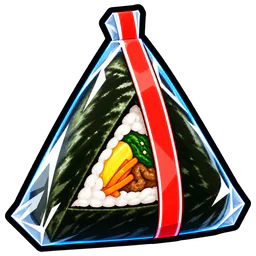
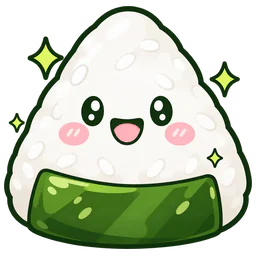
art(office): smiling white 삼각김밥 pickup (no longer reads as a warning sign)

diff --git a/public-office/art/SOURCES.md b/public-office/art/SOURCES.md
@@ -199,7 +199,7 @@ GPT Image 2.5 (`gpt_image_2_5`, medium, transparent) → trimmed, contained with
 | `pickup-coin.webp` | gpt_image_2_5 | Single game pickup item icon, one object only, centered and filling most of the square, very thick dark outline, bold simple shapes, saturated colors with neon accents, bright Korean webtoon comic style, cel shading, readable at 32 pixels, transparent background, no text, no letters, no numbers, no logos. The item: a shiny gold coin with a simple analog clock face (hands only) embossed on it, sparkle. |
 | `pickup-shield.webp` | gpt_image_2_5 | Single game pickup item icon, one object only, centered and filling most of the square, very thick dark outline, bold simple shapes, saturated colors with neon accents, bright Korean webtoon comic style, cel shading, readable at 32 pixels, transparent background, no text, no letters, no numbers, no logos. The item: a pair of cyan noise-cancelling headphones with a soft glowing bubble. |
 | `pickup-slow.webp` | gpt_image_2_5 | Single game pickup item icon, one object only, centered and filling most of the square, very thick dark outline, bold simple shapes, saturated colors with neon accents, bright Korean webtoon comic style, cel shading, readable at 32 pixels, transparent background, no text, no letters, no numbers, no logos. The item: a plastic cup of iced americano with ice cubes and a straw, frosty. |
-| `pickup-heart.webp` | gpt_image_2_5 | Single game pickup item icon, one object only, centered and filling most of the square, very thick dark outline, bold simple shapes, saturated colors with neon accents, bright Korean webtoon comic style, cel shading, readable at 32 pixels, transparent background, no text, no letters, no numbers, no logos. The item: a Korean triangle kimbap rice ball wrapped in seaweed and a clear wrapper with a red stripe. |
+| `pickup-heart.webp` | gpt_image_2_5 | Single game pickup item icon, one object only, centered and filling most of the square, thick dark outline, bright Korean webtoon comic style, cel shading, cute, readable at 30 pixels, transparent background, no text, no letters, no numbers, no logos. The item: a cute Korean triangle kimbap rice ball with a soft rounded shape, a bright WHITE rice body with a happy smiling face and pink cheeks, only a small green seaweed band wrapped across the bottom, small sparkles. Mostly white and green, no dark or black areas, no red. |
 | `collect-coupon.webp` | gpt_image_2_5 | Single game pickup item icon, one object only, centered and filling most of the square, very thick dark outline, bold simple shapes, saturated colors with neon accents, bright Korean webtoon comic style, cel shading, readable at 32 pixels, transparent background, no text, no letters, no numbers, no logos. The item: a coffee stamp coupon card with a coffee cup icon and round stamp circles, no writing. |
 | `collect-docs.webp` | gpt_image_2_5 | Single game pickup item icon, one object only, centered and filling most of the square, very thick dark outline, bold simple shapes, saturated colors with neon accents, bright Korean webtoon comic style, cel shading, readable at 32 pixels, transparent background, no text, no letters, no numbers, no logos. The item: a small stack of documents in a green folder with a red urgent sticky flag, blank pages. |
 | `collect-cookie.webp` | gpt_image_2_5 | Single game pickup item icon, one object only, centered and filling most of the square, very thick dark outline, bold simple shapes, saturated colors with neon accents, bright Korean webtoon comic style, cel shading, readable at 32 pixels, transparent background, no text, no letters, no numbers, no logos. The item: a round chocolate chip cookie with a bite taken out. |
@@ -219,3 +219,4 @@ Cut out locally, then placed so its opaque box has the same height, bottom and c
 
 - `collect-envelope.webp` regenerated as a mint gift card with a gold ribbon (was a golden envelope identical to the hazard `prop-envelope`).
 - `prop-colleague.webp` (high-five coworker for the 돌발 highfive event): nano_banana_flash — $STYLE. Single full-body chibi character, 2.5 heads tall, on a pure flat white background, no ground, no shadow, no speed lines, nothing else. A cheerful young Korean office coworker (friendly man with short wavy brown hair, light-blue shirt with rolled sleeves, grey slacks, blank ID badge on a teal lanyard), side three-quarter view facing RIGHT, standing and raising one open hand high for a high-five, big happy grin, full body head to toe. Cut out locally, 512×640, 615 px tall, feet at y=639, centred (same anchor as the heroes).
+- `pickup-heart.webp` regenerated 2026-11-02 (white rice body with a face, green band at the bottom only) — the dark-seaweed version read as a ⚠ sign at 30 px.
